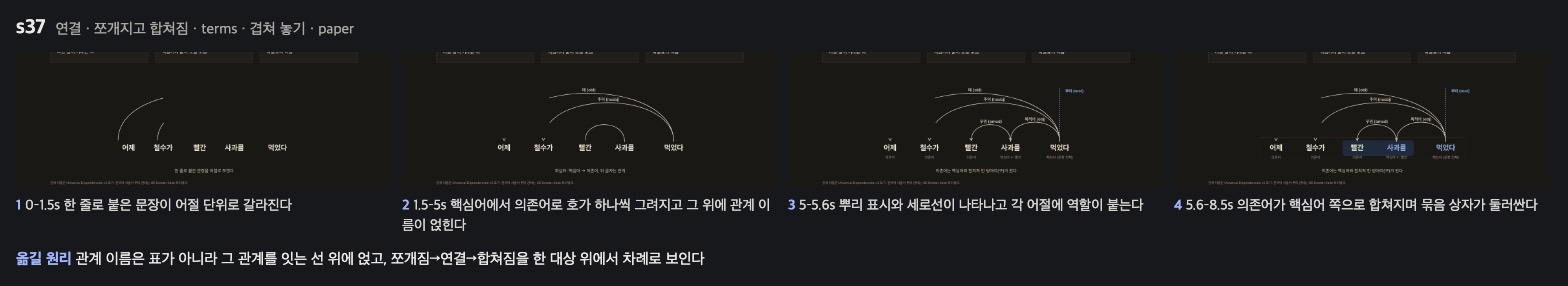
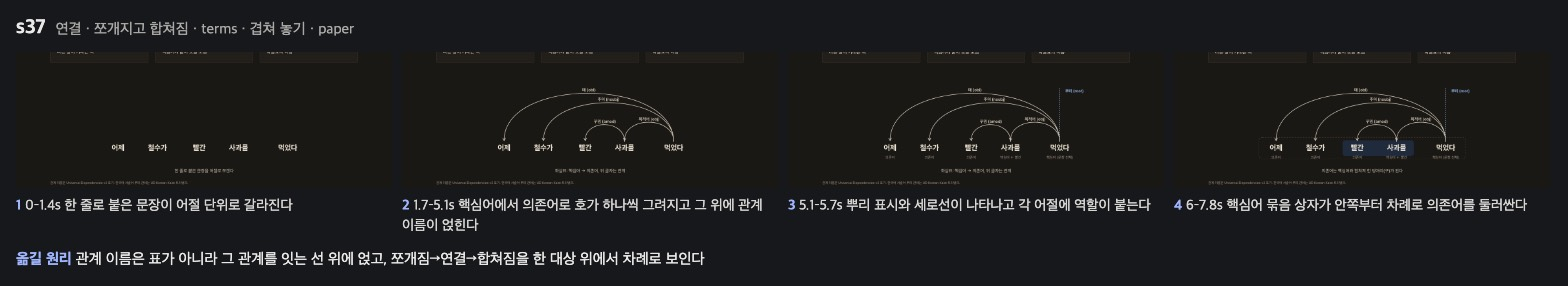
feat(shots): 문제 카드 4장을 LTT.motion.play로 다시 쓰고 페이지 비트로 찍는다
- s29·s37·s45·s47의 손 타이머를 play 비트로 바꿨다. shots.mjs는 페이지 data-ltt-beats의 글 있는 비트를 먼저 쓴다.
- 카드 4장과 무드보드를 다시 찍었다.
- look.md: 비트 하나는 동사 하나, 비트 끝 화면이 프레임이 된다. SKILL.md 2단계에 비트를 적는다.
- handoff: 계획 2 끝, kit 후보 4개, 재개 지점은 run S.

Claude-Session: https://claude.ai/code/session_01PHqr3J72fe5VuFR5bue5M7

diff --git a/site/gallery/shots/s37-dependency-parse.html b/site/gallery/shots/s37-dependency-parse.html
@@ -22,8 +22,6 @@
 <body>
 <script>
 const SVG = "http://www.w3.org/2000/svg";
-const ease = (x) => x < .5 ? 4 * x * x * x : 1 - Math.pow(-2 * x + 2, 3) / 2;
-const clamp = (x) => Math.max(0, Math.min(1, x));
 const mk = (tag, a, p) => { const n = document.createElementNS(SVG, tag); for (const k in a) n.setAttribute(k, a[k]); p && p.appendChild(n); return n; };
 // 세종 구문 분석 말뭉치·UD Korean 관례: 서술어가 문장의 뿌리, 체언·수식어는 오른쪽 핵심어에 기댄다
 const W = [{ w: "어제", x: 110 }, { w: "철수가", x: 270 }, { w: "빨간", x: 440 }, { w: "사과를", x: 600 }, { w: "먹었다", x: 800 }];
@@ -31,41 +29,32 @@ const ARCS = [{ h: 4, d: 0, rel: "때 (obl)" }, { h: 4, d: 1, rel: "주어 (nsub
 
 function parse(host) {
   const s = mk("svg", { viewBox: "0 0 920 440", class: "dp", "data-annotate": "" }, host);
-  const BASE = 330;
-  const boxes = [mk("rect", { x: 380, y: BASE - 40, width: 290, height: 64, rx: 10, style: "fill:var(--ltt-accent-soft);stroke:none" }, s),
-    mk("rect", { x: 40, y: BASE - 52, width: 840, height: 88, rx: 14, style: "fill:none;stroke:var(--ltt-line-2);stroke-width:1.5;stroke-dasharray:6 5" }, s)];
+  const BASE = 330, O = { opacity: 0 };
+  const boxes = [mk("rect", { x: 380, y: BASE - 40, width: 290, height: 64, rx: 10, opacity: 0, style: "fill:var(--ltt-accent-soft);stroke:none" }, s),
+    mk("rect", { x: 40, y: BASE - 52, width: 840, height: 88, rx: 14, opacity: 0, style: "fill:none;stroke:var(--ltt-line-2);stroke-width:1.5;stroke-dasharray:6 5" }, s)];
   const arcs = ARCS.map((a) => { const x1 = W[a.h].x, x2 = W[a.d].x, hgt = 40 + Math.abs(x1 - x2) * 0.32;
     const p = mk("path", { d: `M${x1},${BASE - 34} C${x1},${BASE - 34 - hgt} ${x2},${BASE - 34 - hgt} ${x2},${BASE - 40}`, style: "fill:none;stroke:var(--ltt-ink-2);stroke-width:2.2" }, s);
-    const tip = mk("path", { d: `M${x2 - 6},${BASE - 50} L${x2},${BASE - 38} L${x2 + 6},${BASE - 50}`, style: "fill:none;stroke:var(--ltt-ink-2);stroke-width:2.2" }, s);
-    const lab = mk("text", { x: (x1 + x2) / 2, y: BASE - 34 - hgt * 0.75 - 8, "text-anchor": "middle", style: "font-size:17px;fill:var(--ltt-ink-2);font-weight:600" }, s);
-    lab.textContent = a.rel; const L = p.getTotalLength ? 600 : 600; p.style.strokeDasharray = L;
-    return { p, tip, lab, L }; });
-  const root = mk("text", { x: 860, y: 96, "text-anchor": "middle", style: "font-size:16px;fill:var(--ltt-accent);font-weight:700" }, s); root.textContent = "뿌리 (root)";
-  const rootLine = mk("line", { x1: 800, y1: 80, x2: 800, y2: BASE - 40, style: "stroke:var(--ltt-accent);stroke-width:2.2;stroke-dasharray:4 4" }, s);
-  const words = W.map((o, i) => { const t = mk("text", { x: o.x, y: BASE, "text-anchor": "middle", style: "font-size:30px;font-weight:700;fill:var(--ltt-ink)" }, s); t.textContent = o.w; return t; });
-  const role = W.map((o) => mk("text", { x: o.x, y: BASE + 34, "text-anchor": "middle", style: "font-size:15px;fill:var(--ltt-muted)" }, s));
-  const cap = mk("text", { x: 460, y: 420, "text-anchor": "middle", style: "font-size:18px;fill:var(--ltt-ink-2)" }, s);
-  const isHead = [false, false, false, true, true];
-  function draw(u) {
-    // 0–.18 한 줄 문장 → 어절로 쪼개짐, .18–.6 화살표가 하나씩, .6–.85 의존어가 핵심어 묶음으로 합쳐짐, .85–1 쉼
-    const sp = ease(clamp(u / .16)), mg = ease(clamp((u - .62) / .2)), out = ease(clamp((u - .94) / .06));
-    const split = sp * (1 - out);
-    words.forEach((t, i) => { const gather = 460 + (W[i].x - 460) * (0.55 + 0.45 * split);
-      t.setAttribute("x", gather); t.style.fill = isHead[i] && mg > .3 ? "var(--ltt-accent)" : "var(--ltt-ink)"; });
-    arcs.forEach((a, i) => { const k = ease(clamp((u - .2 - i * .1) / .1)) * (1 - out);
-      a.p.style.strokeDashoffset = a.L * (1 - k); a.tip.style.opacity = k > .95 ? 1 : 0; a.lab.style.opacity = clamp((k - .6) / .4); });
-    const rk = ease(clamp((u - .58) / .06)) * (1 - out); root.style.opacity = rk; rootLine.style.opacity = rk;
-    boxes[0].style.opacity = clamp(mg * 1.6 - .2) * (1 - out); boxes[1].style.opacity = clamp(mg * 1.6 - .8) * (1 - out);
-    role.forEach((r, i) => { r.textContent = i === 3 ? "핵심어 ← 빨간" : i === 4 ? "핵심어 (문장 전체)" : "의존어"; r.style.opacity = clamp((u - .5) / .08) * (1 - out); });
-    cap.textContent = u < .18 ? "한 줄로 붙은 문장을 어절로 쪼갠다" : u < .6 ? "화살표: 핵심어 → 의존어, 위 글자는 관계" : u < .94 ? "의존어는 핵심어와 합쳐져 한 덩어리(구)가 된다" : "";
-  }
-  return { el: s, draw };
-}
-function loop(period, draw) {
-  let id = 0; const reduced = matchMedia("(prefers-reduced-motion: reduce)").matches;
-  return { enter() { clearTimeout(id); if (reduced) { draw(0.9); return; } const t0 = Date.now();
-      const f = () => { draw(((Date.now() - t0) / period) % 1); id = setTimeout(f, 16); }; f(); },
-    leave() { clearTimeout(id); } };
+    const tip = mk("path", { d: `M${x2 - 6},${BASE - 50} L${x2},${BASE - 38} L${x2 + 6},${BASE - 50}`, opacity: 0, style: "fill:none;stroke:var(--ltt-ink-2);stroke-width:2.2" }, s);
+    const lab = mk("text", { x: (x1 + x2) / 2, y: BASE - 34 - hgt * 0.75 - 8, opacity: 0, "text-anchor": "middle", style: "font-size:17px;fill:var(--ltt-ink-2);font-weight:600" }, s);
+    lab.textContent = a.rel; return { p, tip, lab }; });
+  const root = mk("text", { x: 860, y: 96, opacity: 0, "text-anchor": "middle", style: "font-size:16px;fill:var(--ltt-accent);font-weight:700" }, s); root.textContent = "뿌리 (root)";
+  const rootLine = mk("line", { x1: 800, y1: 80, x2: 800, y2: BASE - 40, opacity: 0, style: "stroke:var(--ltt-accent);stroke-width:2.2;stroke-dasharray:4 4" }, s);
+  const words = W.map((o) => { const t = mk("text", { x: 460 + (o.x - 460) * 0.55, y: BASE, "text-anchor": "middle", style: "font-size:30px;font-weight:700;fill:var(--ltt-ink)" }, s); t.textContent = o.w; return t; });
+  const role = W.map((o, i) => { const r = mk("text", { x: o.x, y: BASE + 34, opacity: 0, "text-anchor": "middle", style: "font-size:15px;fill:var(--ltt-muted)" }, s);
+    r.textContent = i === 3 ? "핵심어 ← 빨간" : i === 4 ? "핵심어 (문장 전체)" : "의존어"; return r; });
+  const caps = ["한 줄로 붙은 문장을 어절로 쪼갠다", "화살표: 핵심어 → 의존어, 위 글자는 관계", "의존어는 핵심어와 합쳐져 한 덩어리(구)가 된다"].map((c, i) => {
+    const t = mk("text", { x: 460, y: 420, opacity: i ? 0 : 1, "text-anchor": "middle", style: "font-size:18px;fill:var(--ltt-ink-2)" }, s); t.textContent = c; return t; });
+  const fade = (t, el, v, text) => ({ t, morph: el, to: { opacity: v }, text });
+  LTT.motion.play(s, [
+    ...words.map((w, i) => ({ t: [0, 1400], morph: w, to: { x: W[i].x }, text: i ? undefined : "0–1.4s 한 줄로 붙은 문장이 어절 단위로 갈라진다" })),
+    fade([1400, 1700], caps[0], 0), fade([1400, 1700], caps[1], 1),
+    ...arcs.flatMap((a, i) => { const t0 = 1700 + i * 850, t1 = t0 + 850;
+      return [{ t: [t0, t1], draw: a.p, text: i === 3 ? "1.7–5.1s 핵심어에서 의존어로 호가 하나씩 그려지고 그 위에 관계 이름이 얹힌다" : undefined }, fade([t1 - 250, t1], [a.tip, a.lab], 1)]; }),
+    fade([5100, 5700], [root, rootLine, ...role], 1, "5.1–5.7s 뿌리 표시와 세로선이 나타나고 각 어절에 역할이 붙는다"),
+    fade([5700, 6000], caps[1], 0), fade([5700, 6000], caps[2], 1),
+    fade([6000, 6900], boxes[0], 1), fade([6900, 7800], boxes[1], 1, "6–7.8s 핵심어 묶음 상자가 안쪽부터 차례로 의존어를 둘러싼다"),
+  ], { period: 9000 });
+  return { el: s };
 }
 LTT.deck({
   title: "의존 구문 분석", theme: "paper",
@@ -78,8 +67,7 @@ LTT.deck({
       { key: "의존어", word: "의존어", en: "dependent", icon: "link", visual: false, plain: "핵심어에 붙어 뜻을 보탬" },
       { key: "의존 관계", word: "관계", en: "relation", icon: "arrow", visual: false, plain: "화살표의 이름" }],
     basis: "관계 이름은 Universal Dependencies v2 표기. 한국어 서술어 뿌리 관례는 UD Korean Kaist 트리뱅크.",
-    mount(body) { const w = body.appendChild(document.createElement("div")); w.className = "dp-wrap";
-      const f = parse(w); f.draw(0); return loop(9000, f.draw); }
+    mount(body) { const w = body.appendChild(document.createElement("div")); w.className = "dp-wrap"; parse(w); }
   }]
 });
 </script>

diff --git a/site/gallery/shots/s47-power-mix-sweep.html b/site/gallery/shots/s47-power-mix-sweep.html
@@ -11,14 +11,7 @@
 <style>/* 장면 하나짜리 본보기라 덱 순서 lint가 늘 뜬다. 기대값 불일치만 패널로 보인다. */ #ltt-expect:not([data-fails]) { display: none; }</style>
 </head><body><script>
 const SVG = "http://www.w3.org/2000/svg";
-const ease = (x) => x < .5 ? 4 * x * x * x : 1 - Math.pow(-2 * x + 2, 3) / 2;
-const clamp = (x) => Math.max(0, Math.min(1, x));
 const el = (tag, attrs, parent) => { const n = document.createElementNS(SVG, tag); for (const k in attrs) n.setAttribute(k, attrs[k]); parent && parent.appendChild(n); return n; };
-const reduced = matchMedia("(prefers-reduced-motion: reduce)").matches;
-function loop(period, draw) { let raf = 0, t0 = 0;
-  return { enter() { clearTimeout(raf); if (reduced) { draw(0.999); return; }
-      t0 = Date.now(); const f = () => { draw(((Date.now() - t0) / period) % 1); raf = setTimeout(f, 16); }; f(); },
-    leave() { clearTimeout(raf); } }; }
 // 발전량 비중(%) 근사치. Ember Yearly Electricity Data, IEA 통계를 반올림했다.
 const KINDS = [{ id: "coal", l: "석탄", c: "var(--ltt-c1)" }, { id: "gas", l: "가스", c: "var(--ltt-c2)" }, { id: "nuc", l: "원자력", c: "var(--ltt-c3)" }, { id: "ren", l: "재생에너지", c: "var(--ltt-c4)" }, { id: "oth", l: "석유·기타", c: "var(--ltt-c5)" }];
 const YEARS = [2000, 2010, 2015, 2020, 2023];
@@ -36,31 +29,36 @@ function figure(host) {
     return { name, segs, x0 }; });
   // 가운데 연결선: 같은 전원을 두 나라 사이에 이어 모양 차이를 읽게 한다
   const links = KINDS.map((k) => el("path", { style: `fill:${k.c};opacity:.16` }, s));
-  const yr = el("text", { x: W / 2, y: T + BH / 2 + 18, "text-anchor": "middle", style: "font-size:52px;font-weight:700;fill:var(--ltt-ink)" }, s);
+  const yrs = YEARS.map((y, i) => { const t = el("text", { x: W / 2, y: T + BH / 2 + 18, opacity: i ? 0 : 1, "text-anchor": "middle", style: "font-size:52px;font-weight:700;fill:var(--ltt-ink)" }, s); t.textContent = y; return t; });
   const yrSub = el("text", { x: W / 2, y: T + BH / 2 + 46, "text-anchor": "middle", style: "font-size:14px;fill:var(--ltt-muted)" }, s); yrSub.textContent = "발전량 비중";
-  function draw(vals) { cols.forEach((c, ci) => { let y = T; c.tops = [];
-      c.segs.forEach((g, i) => { const v = vals[ci][i], hh = v / 100 * BH; g.r.setAttribute("y", y); g.r.setAttribute("height", Math.max(0, hh));
-        g.t.setAttribute("y", y + hh / 2 + 5); g.t.textContent = hh > 22 ? `${g.k.l} ${Math.round(v)}%` : ""; c.tops.push([y, y + hh]); y += hh; }); });
-    links.forEach((p, i) => { const a = cols[0].tops[i], b = cols[1].tops[i], xa = 40 + CW, xb = W - CW - 40, m = (xa + xb) / 2;
+  const geo = (name, y) => { let top = T; return MIX[name][y].map((v) => { const g = { y: top, height: v / 100 * BH }; top += g.height; return g; }); };
+  function setYear(y) { cols.forEach((c) => geo(c.name, y).forEach((g, i) => { c.segs[i].r.setAttribute("y", g.y); c.segs[i].r.setAttribute("height", g.height); }));
+    yrs.forEach((t, i) => t.setAttribute("opacity", YEARS[i] === y ? 1 : 0)); }
+  // 띠 모양과 칸 글자는 숫자 속성 하나로 옮길 수 없어, 막대가 지금 놓인 자리를 읽어 매 프레임 다시 그린다.
+  function follow() { const tops = cols.map((c) => c.segs.map((g) => { const y = +g.r.getAttribute("y"), hh = +g.r.getAttribute("height");
+      g.t.setAttribute("y", y + hh / 2 + 5); g.t.textContent = hh > 22 ? `${g.k.l} ${Math.round(hh / BH * 100)}%` : ""; return [y, y + hh]; }));
+    links.forEach((p, i) => { const a = tops[0][i], b = tops[1][i], xa = 40 + CW, xb = W - CW - 40, m = (xa + xb) / 2;
       p.setAttribute("d", `M${xa},${a[0]} C${m},${a[0]} ${m},${b[0]} ${xb},${b[0]} L${xb},${b[1]} C${m},${b[1]} ${m},${a[1]} ${xa},${a[1]}Z`); }); }
-  return { el: s, draw, yr };
+  setYear(YEARS[0]); follow();
+  // 해마다 1.2초 옮겨 가고 0.6초 머문다. 같은 칸의 다음 비트는 앞 비트가 놓은 자리에서 시작한다.
+  const TEXT = { 0: "0.6–1.8s 칸 높이가 모양을 바꾸며 다음 해로 옮겨 가고 띠도 따라 휜다", 2: "4.2–5.4s 독일은 석탄 칸이 줄고 재생에너지 칸이 커지며, 띠의 기울기가 두 쪽 차이를 보인다" };
+  const beats = [{ t: [0, 600], text: "0–0.6s 첫 해: 양쪽 100% 막대가 칸 비율로 나뉘고 가운데 띠가 같은 범주를 잇는다" }];
+  YEARS.slice(1).forEach((y, k) => { const t = [600 + k * 1800, 1800 + k * 1800];
+    beats.push({ t, morph: yrs[k + 1], to: { opacity: 1 }, text: TEXT[k] }, { t, morph: yrs[k], to: { opacity: 0 } });
+    cols.forEach((c) => geo(c.name, y).forEach((g, i) => beats.push({ t, morph: c.segs[i].r, to: g }))); });
+  beats.push({ t: [7200, 8900], text: "7.2–9s 마지막 해에서 멈추고 두 막대의 최종 모양이 띠로 이어진다" });
+  const handle = LTT.motion.play(s, beats, { period: 9000 });
+  LTT.motion.loop(follow, { period: 9000, el: links[0] });
+  return { el: s, setYear, follow, handle };
 }
-const mixAt = (name, t) => { const i = Math.min(YEARS.length - 2, Math.floor(t)), f = ease(clamp(t - i));
-  return MIX[name][YEARS[i]].map((v, k) => v + (MIX[name][YEARS[i + 1]][k] - v) * f); };
 const scene = { title: "같은 20여 년, 독일은 석탄을 재생에너지로 바꾸고 한국은 가스를 늘렸다",
   sub: "막대는 해마다 발전량 비중이다. 저절로 연도를 돌고, 연도 단추를 누르면 그 해에 멈춘다.",
   basis: "Ember Yearly Electricity Data·IEA 통계를 반올림한 근사치(불확실, 1–2%p 차이 가능).",
   mount(body) {
     body.innerHTML = '<div class="pm-wrap"><div id="pm-fig"></div><div class="ltt-param">연도 <b id="year-v"></b> <span class="ltt-basis">(누르면 자동 재생이 멈춘다)</span><div id="year"></div></div></div>';
-    const f = figure(body.querySelector("#pm-fig")); let raf = 0, t = 0, auto = true, first = true, from = 0, to = 0, t0 = 0;
-    const show = (tt) => { f.draw([mixAt("독일", tt), mixAt("한국", tt)]); f.yr.textContent = YEARS[Math.round(tt)]; };
-    const tick = () => { if (auto) { const p = ((Date.now() - t0) / 9000) % 1; // 연도마다 1.2초 이동, 0.6초 머묾
-          const seg = p * YEARS.length, i = Math.floor(seg); t = i >= YEARS.length - 1 ? YEARS.length - 1 : i + clamp((seg - i - 0.33) / 0.67); }
-      else { t += (to - t) * 0.12; }
-      show(t); raf = setTimeout(tick, 16); };
-    LTT.sweep({ params: { year: { kind: "steps", stops: YEARS, value: 2000, fmt: (v) => v + "년" } },
-      render: ({ year }) => { if (first) { first = false; return; } auto = false; to = YEARS.indexOf(year); } });
-    return { enter() { clearTimeout(raf); if (reduced) { show(YEARS.length - 1); return; } t0 = Date.now(); tick(); }, leave() { clearTimeout(raf); } };
+    const f = figure(body.querySelector("#pm-fig")); let first = true;
+    LTT.sweep({ params: { year: { kind: "steps", stops: YEARS, value: 2000, fmt: (v) => v + "년" } }, attract: false,
+      render: ({ year }) => { if (first) { first = false; return; } f.handle.stop(); f.setYear(year); f.follow(); } });
   } };
 LTT.deck({ title: "전력 믹스", theme: "atlas", glossary: { "전력 믹스": "한 해 발전량을 전원별로 나눈 비중" }, scenes: [scene] });
 </script></body></html>

diff --git a/site/gallery/shots/s45-refrigerant-undercharge.html b/site/gallery/shots/s45-refrigerant-undercharge.html
@@ -14,13 +14,13 @@
 .rc{width:100%;max-width:560px;height:auto;display:block;margin:0 auto}
 .ltt-ba-side{display:flex;flex-direction:column}.ltt-ba-stage{width:100%}
 .rc text{font-family:inherit}
+.rc .ltt-flow-dot[r="3.6"]{fill:var(--ltt-warn)!important}
 </style>
 <style>/* 장면 하나짜리 본보기라 덱 순서 lint가 늘 뜬다. 기대값 불일치만 패널로 보인다. */ #ltt-expect:not([data-fails]) { display: none; }</style>
 </head>
 <body>
 <script>
 const SVG = "http://www.w3.org/2000/svg";
-const clamp = (x) => Math.max(0, Math.min(1, x));
 const mk = (tag, attrs, parent) => { const n = document.createElementNS(SVG, tag); for (const k in attrs) n.setAttribute(k, attrs[k]); parent && parent.appendChild(n); return n; };
 // 고정 오리피스·팽창밸브 계통의 흔한 진단 범위(제조사 충전 가이드): 정상 과열도 5–8K·과냉도 8–12K, 냉매 부족이면 과열도↑ 과냉도↓
 const CASES = {
@@ -28,10 +28,6 @@ const CASES = {
   low:    { n: 6,  split: 0.22, merge: 0.92, sh: "과열도 22K", sc: "과냉도 1K" }
 };
 const x0 = 70, x1 = 470, y0 = 80, y1 = 340;
-const segs = [[x0, 210, x0, y1], [x0, y1, x1, y1], [x1, y1, x1, y0], [x1, y0, x0, y0], [x0, y0, x0, 210]];
-const lens = segs.map(([a, b, c, d]) => Math.hypot(c - a, d - b)), PER = lens.reduce((a, b) => a + b, 0);
-const at = (u) => { let d = ((u % 1) + 1) % 1 * PER; for (let i = 0; i < segs.length; i++) { if (d <= lens[i]) { const [a, b, c, e] = segs[i], t = d / lens[i]; return [a + (c - a) * t, b + (e - b) * t, i, t]; } d -= lens[i]; } return [x0, 210, 0, 0]; };
-const loops = {};
 
 function cycle(kind) {
   return (el) => {
@@ -52,27 +48,21 @@ function cycle(kind) {
     const vt = mk("text", { x: x0 + 26, y: 215, style: "font-size:15px;font-weight:700;fill:var(--ltt-ink)" }, s); vt.textContent = "팽창밸브";
     const sh = mk("text", { x: (evX(C.split) + 430) / 2, y: y1 + 52, "text-anchor": "middle", style: "font-size:19px;font-weight:800;fill:var(--ltt-ink)" }, s); sh.textContent = C.sh;
     const sc = mk("text", { x: (cdX(C.merge) + 110) / 2, y: y0 - 36, "text-anchor": "middle", style: "font-size:19px;font-weight:800;fill:var(--ltt-ink)" }, s); sc.textContent = C.sc;
+    // 상이 바뀌는 자리에서 관을 둘로 나눈다: 액체 길(응축기 합류점 → 팽창밸브 → 증발기 끓는 점), 기체 길(그 뒤 → 압축기 → 합류점).
+    const liq = mk("path", { class: "rc-liq", d: `M${cdX(C.merge)} ${y0}L${x0} ${y0}L${x0} ${y1}L${evX(C.split)} ${y1}`, style: "fill:none;stroke:none" }, s);
+    const gas = mk("path", { class: "rc-gas", d: `M${evX(C.split)} ${y1}L${x1} ${y1}L${x1} ${y0}L${cdX(C.merge)} ${y0}`, style: "fill:none;stroke:none" }, s);
+    const per = liq.getTotalLength() + gas.getTotalLength() || 1;
+    const nl = Math.max(1, Math.round(C.n * liq.getTotalLength() / per)), ng = Math.max(2, Math.round(2 * C.n * gas.getTotalLength() / per));
+    // 흐름은 한 주기 내내 돌고, 글은 시각만 붙이는 머무는 비트에 단다. 비트 끝마다 입자가 다른 자리에 있도록 시각과 바퀴 수를 골랐다.
+    LTT.motion.play(s, [
+      { t: [0, 1500], text: "0–1.5s 두 회로에서 큰 점(액체)이 흐르다 증발기에서 작은 점(기체)으로 바뀐다" },
+      { t: [1500, 3900], text: "1.5–4s 작은 점이 압축기를 지나 응축기에서 다시 큰 점으로 합쳐진다" },
+      { t: [3900, 6900], text: "4–7s 오른쪽은 큰 점이 바뀌는 자리가 앞당겨져 증발기 대부분을 기체가 채운다" },
+      { t: [0, 6900], flow: liq, count: nl, r: 8, tail: 0, laps: 2 },
+      { t: [0, 6900], flow: gas, count: ng, r: 3.6, tail: 10, laps: 3 },
+    ], { period: 6900 });
     return s;
   };
-}
-function animate(s) {
-    const C = CASES[s.dataset.kind], kind = s.dataset.kind, evX = (f) => 110 + f * 320, cdX = (f) => 430 - f * 320;
-    const parts = Array.from({ length: C.n }, (_, i) => { const g = mk("g", {}, s);
-      const big = mk("circle", { r: 8, style: "fill:var(--ltt-accent)" }, g);
-      const sm = [0, 1, 2].map(() => mk("circle", { r: 3.6, style: "fill:var(--ltt-warn)" }, g));
-      return { g, big, sm, o: i / C.n }; });
-    // spread 0 = 액체 한 덩어리, 1 = 기체 세 알갱이
-    const spreadAt = (seg, t, x) => {
-      if (seg === 1) return clamp((x - evX(C.split)) / 26);
-      if (seg === 2) return 1;
-      if (seg === 3) return 1 - clamp((cdX(C.merge) - x) / 26);
-      return 0; };
-    function draw(u) { parts.forEach((p) => { const [x, y, seg, t] = at(u + p.o), sp = spreadAt(seg, t, x);
-      p.g.setAttribute("transform", `translate(${x},${y})`);
-      p.big.setAttribute("r", 8 * (1 - sp)); p.big.style.opacity = 1 - sp;
-      p.sm.forEach((c, k) => { const a = k * 2.094 + 0.5; c.setAttribute("cx", Math.cos(a) * 13 * sp); c.setAttribute("cy", Math.sin(a) * 13 * sp); c.style.opacity = sp; }); }); }
-    if (matchMedia("(prefers-reduced-motion: reduce)").matches) draw(0.1);
-    else { clearTimeout(loops[kind]); const t0 = Date.now(); const f = () => { if (!s.isConnected) return; draw(((Date.now() - t0) / 7000) % 1); loops[kind] = setTimeout(f, 16); }; f(); }
 }
 const legend = `<span class="ltt-key">${LTT.mark("dot", { inline: true, color: "var(--ltt-accent)" })} 액체 덩어리 ${LTT.mark("dot", { inline: true, size: 7, color: "var(--ltt-warn)" })} 쪼개진 기체</span>`;
 
@@ -86,8 +76,6 @@ LTT.deck({
     after: { label: "냉매 부족 (약 −40%)", tone: "bad", visual: cycle("low") },
     basis: "R-410A 가정용 에어컨 기준 흔한 진단 범위(제조사 충전 가이드). 화면 숫자는 모델로 계산한 예시.",
     takeaway: "과열도가 크고 과냉도가 작으면 냉매 부족을 의심한다.",
-    enter: () => document.querySelectorAll("svg.rc").forEach(animate),
-    leave: () => { Object.values(loops).forEach(clearTimeout); }
   }]
 });
 </script>

diff --git a/site/gallery/shots/s29-transit-access.html b/site/gallery/shots/s29-transit-access.html
@@ -42,33 +42,30 @@ function cityMap(host) {
   const P = (r, a) => [C + r * K * Math.cos(a), C + r * K * Math.sin(a)];
   mk("circle", { cx: C, cy: C, r: RCITY * K, style: "fill:var(--ltt-land);stroke:var(--ltt-border);stroke-width:1.5" }, s);
   [3, 6].forEach((r) => mk("circle", { cx: C, cy: C, r: r * K, style: "fill:none;stroke:var(--ltt-border);stroke-dasharray:3 5" }, s));
-  const lines = mk("g", {}, s), dots = mk("g", {}, s), flow = mk("g", {}, s);
+  const lines = mk("g", {}, s), dots = mk("g", {}, s), rides = mk("g", {}, s);
   mk("circle", { cx: C, cy: C, r: 11, style: "fill:var(--ltt-ink);stroke:var(--ltt-bg);stroke-width:3" }, s);
   const cl = mk("text", { x: C + 16, y: C - 14, style: "font-size:14px;font-weight:700;fill:var(--ltt-ink)" }, s); cl.textContent = "도심 업무지구";
   const sc = mk("text", { x: S - 8, y: S - 8, "text-anchor": "end", style: "font-size:12px;fill:var(--ltt-muted)" }, s); sc.textContent = "반경 10km · 점 하나 = 출근자 약 1,000명";
   const nodes = PEOPLE.map((p) => { const [x, y] = P(p.r, p.a); return mk("circle", { cx: x, cy: y, r: 3.2 }, dots); });
-  let riders = [], id = 0;
   function set(n) {
-    lines.innerHTML = "";
+    lines.innerHTML = ""; rides.innerHTML = "";
     lineAngles(n).forEach((a, i) => { const [x, y] = P(RCITY, a);
       mk("line", { x1: C, y1: C, x2: x, y2: y, style: `stroke:var(--ltt-c${i % 6 + 1});stroke-width:${WALK * K * 2};opacity:.16;stroke-linecap:round` }, lines);
       mk("line", { x1: C, y1: C, x2: x, y2: y, style: `stroke:var(--ltt-c${i % 6 + 1});stroke-width:4;stroke-linecap:round` }, lines);
       for (let r = 1.5; r < RCITY; r += 1.5) { const [sx, sy] = P(r, a); mk("circle", { cx: sx, cy: sy, r: 4, style: "fill:var(--ltt-bg);stroke:var(--ltt-ink-2);stroke-width:1.5" }, lines); } });
-    riders = [];
+    // 출근 경로: 집 → 가장 가까운 노선(걷기) → 도심(타기). 화면에는 그리지 않고 flow가 따라가는 길로만 쓴다.
     PEOPLE.forEach((p, i) => { const nb = nearest(p, n), ok = nb.d <= WALK;
-      nodes[i].style.fill = ok ? "var(--ltt-accent)" : "var(--ltt-muted)"; nodes[i].style.opacity = ok ? .9 : .45;
-      if (ok && i % 2 === 0) riders.push({ p, nb, phase: rnd() }); });
+      nodes[i].setAttribute("class", ok ? "ta-in" : "");
+      nodes[i].style.fill = ok ? "var(--ltt-accent)" : "var(--ltt-muted)"; nodes[i].style.opacity = ok ? .35 : .3;
+      if (ok && i % 3 === 0) { const [x0, y0] = P(p.r, p.a), [x1, y1] = P(nb.along, nb.a);
+        mk("path", { class: "ta-ride", d: `M${x0} ${y0}L${x1} ${y1}L${C} ${C}`, style: "fill:none;stroke:none" }, rides); } });
+    LTT.motion.play(s, [
+      { t: [0, 1000], morph: ".ta-in", to: { opacity: .95 }, text: "0–1s 노선 띠 안의 출근자 점만 밝아진다" },
+      { t: [1000, 4000], flow: ".ta-ride", count: 2, laps: 0.75, tail: 20, r: 4.4, text: "1–4s 띠 안 출근자가 걸어서 노선에 오르고 도심으로 흐른다" },
+      { t: [4000, 5000], text: "4–5s 띠 밖 점은 흐린 채 남고, 오른쪽 비율 숫자·막대는 노선 수와 함께 고정된다" },
+    ]);
   }
-  // 걷기(점 → 노선) 25%, 타기(노선 → 도심) 75%로 한 주기를 나눈다
-  function frame(t) { flow.innerHTML = "";
-    riders.forEach((q) => { const u = (t / 5000 + q.phase) % 1; let x, y;
-      const [x0, y0] = P(q.p.r, q.p.a), [x1, y1] = P(q.nb.along, q.nb.a);
-      if (u < .25) { const f = u / .25; x = x0 + (x1 - x0) * f; y = y0 + (y1 - y0) * f; }
-      else { const f = (u - .25) / .75, e = f * f * (3 - 2 * f); [x, y] = P(q.nb.along * (1 - e), q.nb.a); }
-      mk("circle", { cx: x, cy: y, r: 4.4, style: "fill:var(--ltt-ink);stroke:var(--ltt-bg);stroke-width:1.2" }, flow); }); }
-  const reduced = matchMedia("(prefers-reduced-motion: reduce)").matches;
-  return { el: s, set, start() { clearTimeout(id); if (reduced) return; const t0 = Date.now(); const f = () => { frame(Date.now() - t0); id = setTimeout(f, 33); }; f(); },
-    stop() { clearTimeout(id); } };
+  return { el: s, set };
 }
 
 function ringBars(host) {
@@ -99,10 +96,9 @@ LTT.deck({
         <div id="rings"></div><div id="goal"></div>
         <span class="ltt-tag muted">모델로 계산한 예시</span></div></div>`;
       const m = cityMap(body.querySelector("#mapbox")), rb = ringBars(body.querySelector("#rings"));
-      LTT.sweep({ params: { lines: { kind: "steps", stops: [1, 2, 4, 6, 8], value: 2, fmt: (v) => v + "개" } },
+      LTT.sweep({ params: { lines: { kind: "steps", stops: [1, 2, 4, 6, 8], value: 2, fmt: (v) => v + "개" } }, attract: false,
         render: ({ lines }) => { m.set(lines); rb.set(lines); body.querySelector("#sh").textContent = Math.round(share(lines) * 100) + "%"; },
         goal: { el: "goal", text: "출근자의 3분의 2 이상이 역세권에 들게 한다", check: ({ lines }) => share(lines) >= 2 / 3 } });
-      return { enter: () => m.start(), leave: () => m.stop() };
     }
   }]
 });

diff --git a/agent-docs/handoff/3b9ef4b406088e7f-skill-generation-diet.md b/agent-docs/handoff/3b9ef4b406088e7f-skill-generation-diet.md
@@ -44,6 +44,11 @@
   - 문서: API.md 모션 규칙 줄(예외 셋, `once`), deck-contracts, rules.md, charts.md 데이터 형식, compare head·cols, ui.md `ms`, CHANGELOG(미배포), catalog `#motion`. SKILL.md §3 권고 목록에 `still-visual`.
   - ADR `61d6c4210ba48008`: gallery 13편은 새 규칙에 맞춰 고치지 않는다. baseline에 `still-visual` 허용치(두 크기 32)를 따로 적고 `scripts/gallery-audit.mjs` 기록기도 맞췄다.
   - 검증: npm test 1139 통과, gallery audit 통과, 손 변이 13개 중 12 KILLED + 1 equivalent.
+- 2026-10-19~20 여섯 번째 세션: run M2(`2d467cf453771b95`) complete(`07c9c39`), 계획 2 끝.
+  - kit: `LTT.motion.play(root, [{t: [a, b], 동사: 대상, text}], {period, once, el})`, 동사 `draw`·`flow`·`camera`·`morph`·`stack`. 비트 노출은 비트 끝 시각(loop는 `period − 1`로 깎음)과 `text`. `beforeAfter().ms` = 0 또는 700 + 140(m − 1). diagram 노드·엣지·라벨, axisPlot 계열에 `data-ltt-*` 표식.
+  - 문서: API.md motion 행·모션 규칙 줄(동사 이름), 샌드박스 문장 되살림, deck-contracts `play` 절, catalog 동사 데모 다섯. look.md 비트 문법(비트 하나 = 동사 하나, 끝 화면이 프레임), SKILL.md 2단계.
+  - shot s29·s37·s45·s47을 `play`로 다시 썼고, `scripts/shots.mjs`가 페이지 `data-ltt-beats`의 글 있는 비트를 먼저 쓴다. 네 beats json에서는 낡은 beats를 지웠다. 카드 4장과 무드보드를 다시 찍었다.
+  - 검증: npm test 1212 통과, gallery audit 통과, css in sync. shot 4편 audit 경고는 고치기 전과 같다.
 
 ## Failed Attempts
 
@@ -55,9 +60,18 @@
 | run M1 VO-7 판정표를 figure 기준으로 | R3(그림 없음) 행이 항상 그림으로 잡힘 | verified: figure 무대의 자식은 정의상 그림. statement 기준으로 바꿈 |
 | motion 테스트 1회 실행 runner | 부하 중 bind 페이지가 결과 블록 없이 끝남(13 fail 동시) | verified: 헤드리스 Chrome이 가상 시간 예산 전에 끝남. audit.mjs처럼 3배 예산 재시도 |
 | 단계 1의 눈 검토·장면별 스크린샷 제거(`46feba8`, 대체로 계획한 contact sheet는 run B 전이라 없음) | 사용자가 생성된 수업을 직접 보고 그림 결함을 찾았다. 새 흐름은 이미지를 한 번도 Read하지 않았다 | verified: 화면을 보는 단계가 없고, audit·lint가 이 결함 종류를 잡지 못한다 |
+| run M2 시간 검사를 MutationObserver 콜백 시각으로 | 전체 Test command에서 offset/L +473ms 0.598 대 0.577, reduced "+6ms" | verified: 부하에서 콜백이 그리기보다 늦다. 쓰기 순간 시각 기록 + t0 맞춤, 횟수 기반 판정으로 바꿈 |
+| run M2 픽스처가 다음 장면 이동을 미리 예약 | 부하에서 VO-5 E1·E2 "the play stopped" | verified: 늦은 표본 타이머를 이동이 앞질러 장면 밖에서 `running`을 읽음. 기다림을 사슬로 이어 해결 |
+| shot s29·s45를 정수 바퀴 flow 비트로 나눔 | 카드 프레임끼리 입자 자리가 같다 | verified: 고른 간격 입자가 정수 바퀴를 돌면 비트 끝 화면 = 시작 화면. `laps` 0.75, 주기 내내 도는 flow + 글만 단 머무는 비트로 바꿈(look.md에 적음) |
 
 ## Next Step
 
+재개 지점(2026-10-20 여섯 번째 세션 뒤): 계획 `~/.claude/plans/vast-baking-lark.md` 3(run S: audit `--sheet`, SKILL.md §3 8단계·standalone·PROJECT.md, 마무리 측정)부터 한다. sheet 필름스트립은 장면 `data-ltt-beats`(글 있는 비트 우선, M2 형식 `{t, text}`)를 찍는다. 아래 kit 후보 중 1(같은 시각 비트 합치기)은 sheet가 비트 글을 읽으므로 run S에 함께 넣는 것을 기본값으로 제안한다.
+M2 kit 후보(shot 4편을 다시 쓰며 나온 것):
+1. 같은 시각의 비트를 합칠 때 먼저 온 글 없는 비트가 글을 가린다(`sceneBeats`). 페이지에서는 글 있는 비트를 앞에 두어 피했다(s45·s47).
+2. play에 매 프레임 훅이 없어 path `d`·글자처럼 숫자 속성 하나로 못 옮기는 파생 그림은 따로 `loop`(다른 `el`)로 따라 그린다(s47 띠·칸 글자). 그 loop는 기본 비트 셋을 더 노출한다.
+3. flow 입자 색을 비트마다 정할 수 없다(s45는 `r` 속성 CSS로 기체 입자 색을 바꿨다).
+4. sweep `attract`(기본 true)와 render마다 play를 새로 만드는 그림이 부딪친다. 손잡이를 훑을 때마다 play가 처음부터 다시 시작해서 s29·s47은 `attract: false`.
 재개 지점(2026-10-19 다섯 번째 세션 뒤): 계획 `~/.claude/plans/vast-baking-lark.md` 2의 run M2(움직임 동사)부터 한다. M2 spec에 넣을 것: M1 S-1(`LTT.beforeAfter().ms` 값 의무 — 표식 없음 0, 표식 있음 재생 길이 — 와 ui.md 문서 항목), API.md에서 크기 때문에 빠진 두 문장 되살리기(결정 변수끼리 영향을 주면 summary 앞 샌드박스, 모션 예시 "선이 그려지고·모양이 바뀌고·값이 쌓이고·패킷이 흐르며"는 동사 이름으로). M2 뒤에 main이 look.md·SKILL.md에 기대 화면 비트·예외(`still`·`once`)를 적고 s29·s45·s37·s47 카드를 다시 찍는다.
 이전 재개 지점(네 번째 세션 뒤): 계획의 2(run M1)부터.
 이전 재개 지점: Open Questions의 생성기 수정 제안을 사용자가 정하면 그 순서로 진행한다. 남은 것은 계획 "단계와 순서"의 단계 3–6(workflow-approach run A–D), 단계 7, 마무리다.
@@ -100,6 +114,7 @@ M1 입력(1 실사용 확인에서 나온 것):
 ## Spec
 
 - run M1: `agent-docs/spec-logs/6cc24f891a69c407-motion-runtime.md` v4, status limit, run ID `6cc24f891a69c407`. verifier 2/2, 정정 묶음 4, 열린 finding S-1(Next Step).
+- run M2: `agent-docs/spec-logs/2d467cf453771b95-motion-verbs.md` v3, status complete, run ID `2d467cf453771b95`. verifier 2/2(retry → pass), 정정 묶음 3.
 - 계획 단계 3–6에서 run마다 `agent-docs/specs/`에 spec을 만든다(run A: kit 측정·판정, B: audit CLI, C: 선언형 칸, D: 부품).
 
 ## Execution Ledger
@@ -112,6 +127,13 @@ M1 입력(1 실사용 확인에서 나온 것):
 - verifier: 1회 retry(F-1~F-9), 2회 retry(S-1) → limit.
 - 부하 민감: `tests/map/perf.test.mjs`의 벽시계 중앙값 ≤2000ms 검사가 병렬 부하에서 1회 실패(2557ms). 이 run 밖.
 
+### run M2 (`2d467cf453771b95`)
+
+- 정정: batch 1(관찰 시각 TD-1~4: reduced 횟수 판정, 쓰기 순간 시각, ui.md 700·140, 성능 3회 중 최선), batch 2(verifier F-1 → v3 VO-4 9항목·VO-3 T8·T9·VO-2 V14·V15, F-2 API.md play 항목 검사), batch 3(픽스처 사슬, JOBS 5 → 3).
+- 손 변이(`agent-docs/spec-logs/2d467cf453771b95-hand-mutations.txt`): HM-1..HM-15 모두 KILLED. 변이 도구·fuzz 없음(spec 사유).
+- 리뷰: R-1 `2d467cf453771b95-r1-verbs.txt`(catalog 동사 데모 값 표), R-2 shot 카드 4장 눈 확인(이 세션).
+- verifier 권고(비차단): F-3 픽스처 대기 시간 의존, F-4 `play(` 검사 접두, F-5 가림 재개 허용창 약 150ms.
+- 범위 밖 부하 흔들림: `tests/server.test.mjs` "second start reuses" 1회(단독 3/3 통과).
 
 ### audit.mjs 구조 (CDP 재작성 run B 입력)
 

diff --git a/skills/learn-to-tell/look/look.md b/skills/learn-to-tell/look/look.md
@@ -69,6 +69,8 @@
 `lesson.html`보다 먼저 정하는 평가 기준이다. 화면을 보고 난 뒤 화면에 맞춰 고쳐 쓰지 않는다.
 
 - 장면마다 한 줄: 쉬는 화면의 주인공(무엇이, 화면의 어느 자리를 얼마나), 움직임, 앞 장면과 달라지는 구도. 움직임은 shot 카드의 비트처럼 `a–bs 무엇이 어떻게` 순서로 쓴다.
+- 비트 하나는 동사 하나로 옮긴다: `draw`(선이 그려짐), `flow`(입자가 길을 따라 흐름), `camera`(한 곳으로 다가감), `morph`(자리·크기·투명도가 바뀜), `stack`(차례로 쌓임). 이 줄이 그대로 `LTT.motion.play`의 `{t: [a, b], 동사: 대상, text}`가 된다. 움직이지 않는 장면은 API.md의 세 예외일 때만 쓰고, 그때도 되도록 `once`로 한 번 재생하고 멈춘다.
+- 비트가 끝난 화면이 카드와 sheet의 프레임이 된다. 끝 화면만 보고도 그 비트를 알 수 있게 끊는다. 고른 간격의 입자가 정수 바퀴를 돌면 끝 화면이 시작 화면과 같으므로, 주기 내내 도는 `flow`에는 동사 없는 비트(시각과 `text`만)로 단계를 단다.
 - 덱 전체 한 줄: 주 그림이 장면을 지나며 어떻게 바뀌어 가나.
 
 ## 눈 기준 (contact sheet)
